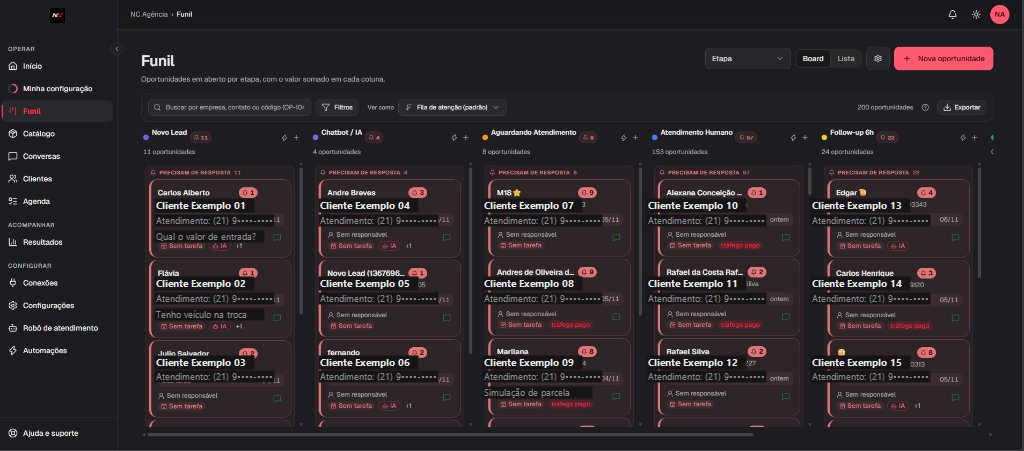
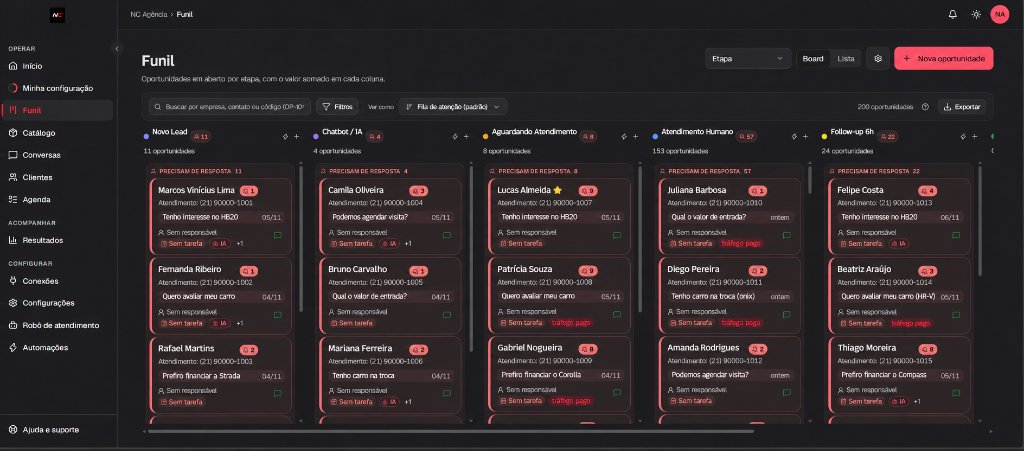
fix: substituir captura do Kanban pela versao original com dados ficticios (anexo 3) e calibrar espacamento da navbar

diff --git a/src/routes/index.tsx b/src/routes/index.tsx
@@ -314,14 +314,14 @@ function Index() {
             <a href="#" aria-label={`${CRM_CONFIG.productName} ${CRM_CONFIG.signature}`}>
               <Logo className="h-8 sm:h-9" />
             </a>
-            <div className="hidden xl:flex items-center gap-2 rounded-full border border-white/10 bg-white/5 px-3 py-1 text-[11px] font-medium text-white/70">
+            <div className="hidden 2xl:flex items-center gap-2 rounded-full border border-white/10 bg-white/5 px-3 py-1 text-[11px] font-medium text-white/70">
               <span className="h-1.5 w-1.5 rounded-full bg-primary" />
               <span>{CRM_CONFIG.category}</span>
             </div>
           </div>
 
           {/* Links de Navegação Desktop por Âncora */}
-          <nav className="hidden md:flex items-center gap-5 lg:gap-6 xl:gap-8 text-[13px] tracking-[-0.01em] font-medium text-neutral-300">
+          <nav className="hidden md:flex items-center gap-4 lg:gap-5 xl:gap-7 text-[13px] tracking-[-0.01em] font-medium text-neutral-300">
             <a
               href="#plataforma"
               className="hover:text-white transition-colors duration-150 py-1"

diff --git a/src/components/landing/InteractivePlatformTabs.tsx b/src/components/landing/InteractivePlatformTabs.tsx
@@ -12,7 +12,7 @@ import {
   ShieldCheck,
 } from "lucide-react";
 
-import kanbanRealImg from "@/assets/real-crm-kanban.png";
+import kanbanRealImg from "@/assets/real-crm-kanban.jpg";
 import dashboardRealImg from "@/assets/real-crm-dashboard.png";
 import conversasRealImg from "@/assets/real-crm-conversas.png";
 import { TrialCtaButton } from "./TrialModal";

diff --git a/src/components/landing/AiDemoVideoPlayer.tsx b/src/components/landing/AiDemoVideoPlayer.tsx
@@ -169,3 +169,4 @@ export function AiDemoVideoPlayer({ className = "" }: AiDemoVideoPlayerProps) {
     </div>
   );
 }
+

diff --git a/src/components/landing/HeroVideoPlayer.tsx b/src/components/landing/HeroVideoPlayer.tsx
@@ -133,3 +133,4 @@ export function HeroVideoPlayer({ className = "" }: HeroVideoPlayerProps) {
     </div>
   );
 }
+
